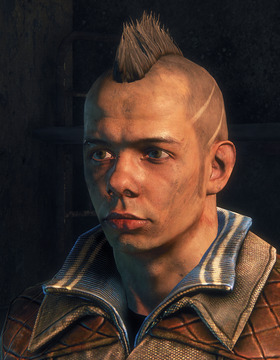
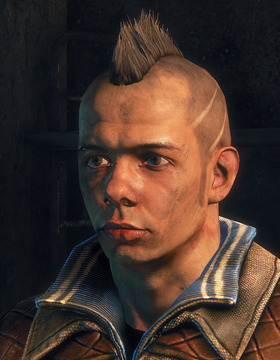
Face choice: the portraits' heads as big as faces@5's cells showed them
The owner kept the cards' size; the first crop showed each head about a
tenth smaller than the cards did before. The crop is 720x926 of the
capture now (was 760x977), still 2.6 capture pixels a picture pixel.

diff --git a/srp-026g/docs/notes/face-choice.md b/srp-026g/docs/notes/face-choice.md
@@ -145,7 +145,7 @@ marked [pick] is a worker's choice the owner may change.
   `SrpFace<i>`), as the lobby window's cards are the movie's pictures of the lobbies: the lobby's
   own character with that face in the Basement, bare (`scavenger_torso_1`), a three-quarter view
   (the camera 20 degrees to his left, level, 2 m, 17.7 degrees of view), a crop of a 2560x1440
-  game capture (`private/local-clients-faces-capture`, 2.7 capture pixels a picture pixel) at
+  game capture (`private/local-clients-faces-capture`, 2.6 capture pixels a picture pixel) at
   twice the card's size, 280x360: a 3840x2160 screen draws the card at that size. It is shown at
   its own pixels, scaled to the card and smoothed (`RoomsLook.card`; the lobby window's pictures
   too), never copied to a card-sized bitmap first. A face without a picture: its number. The
